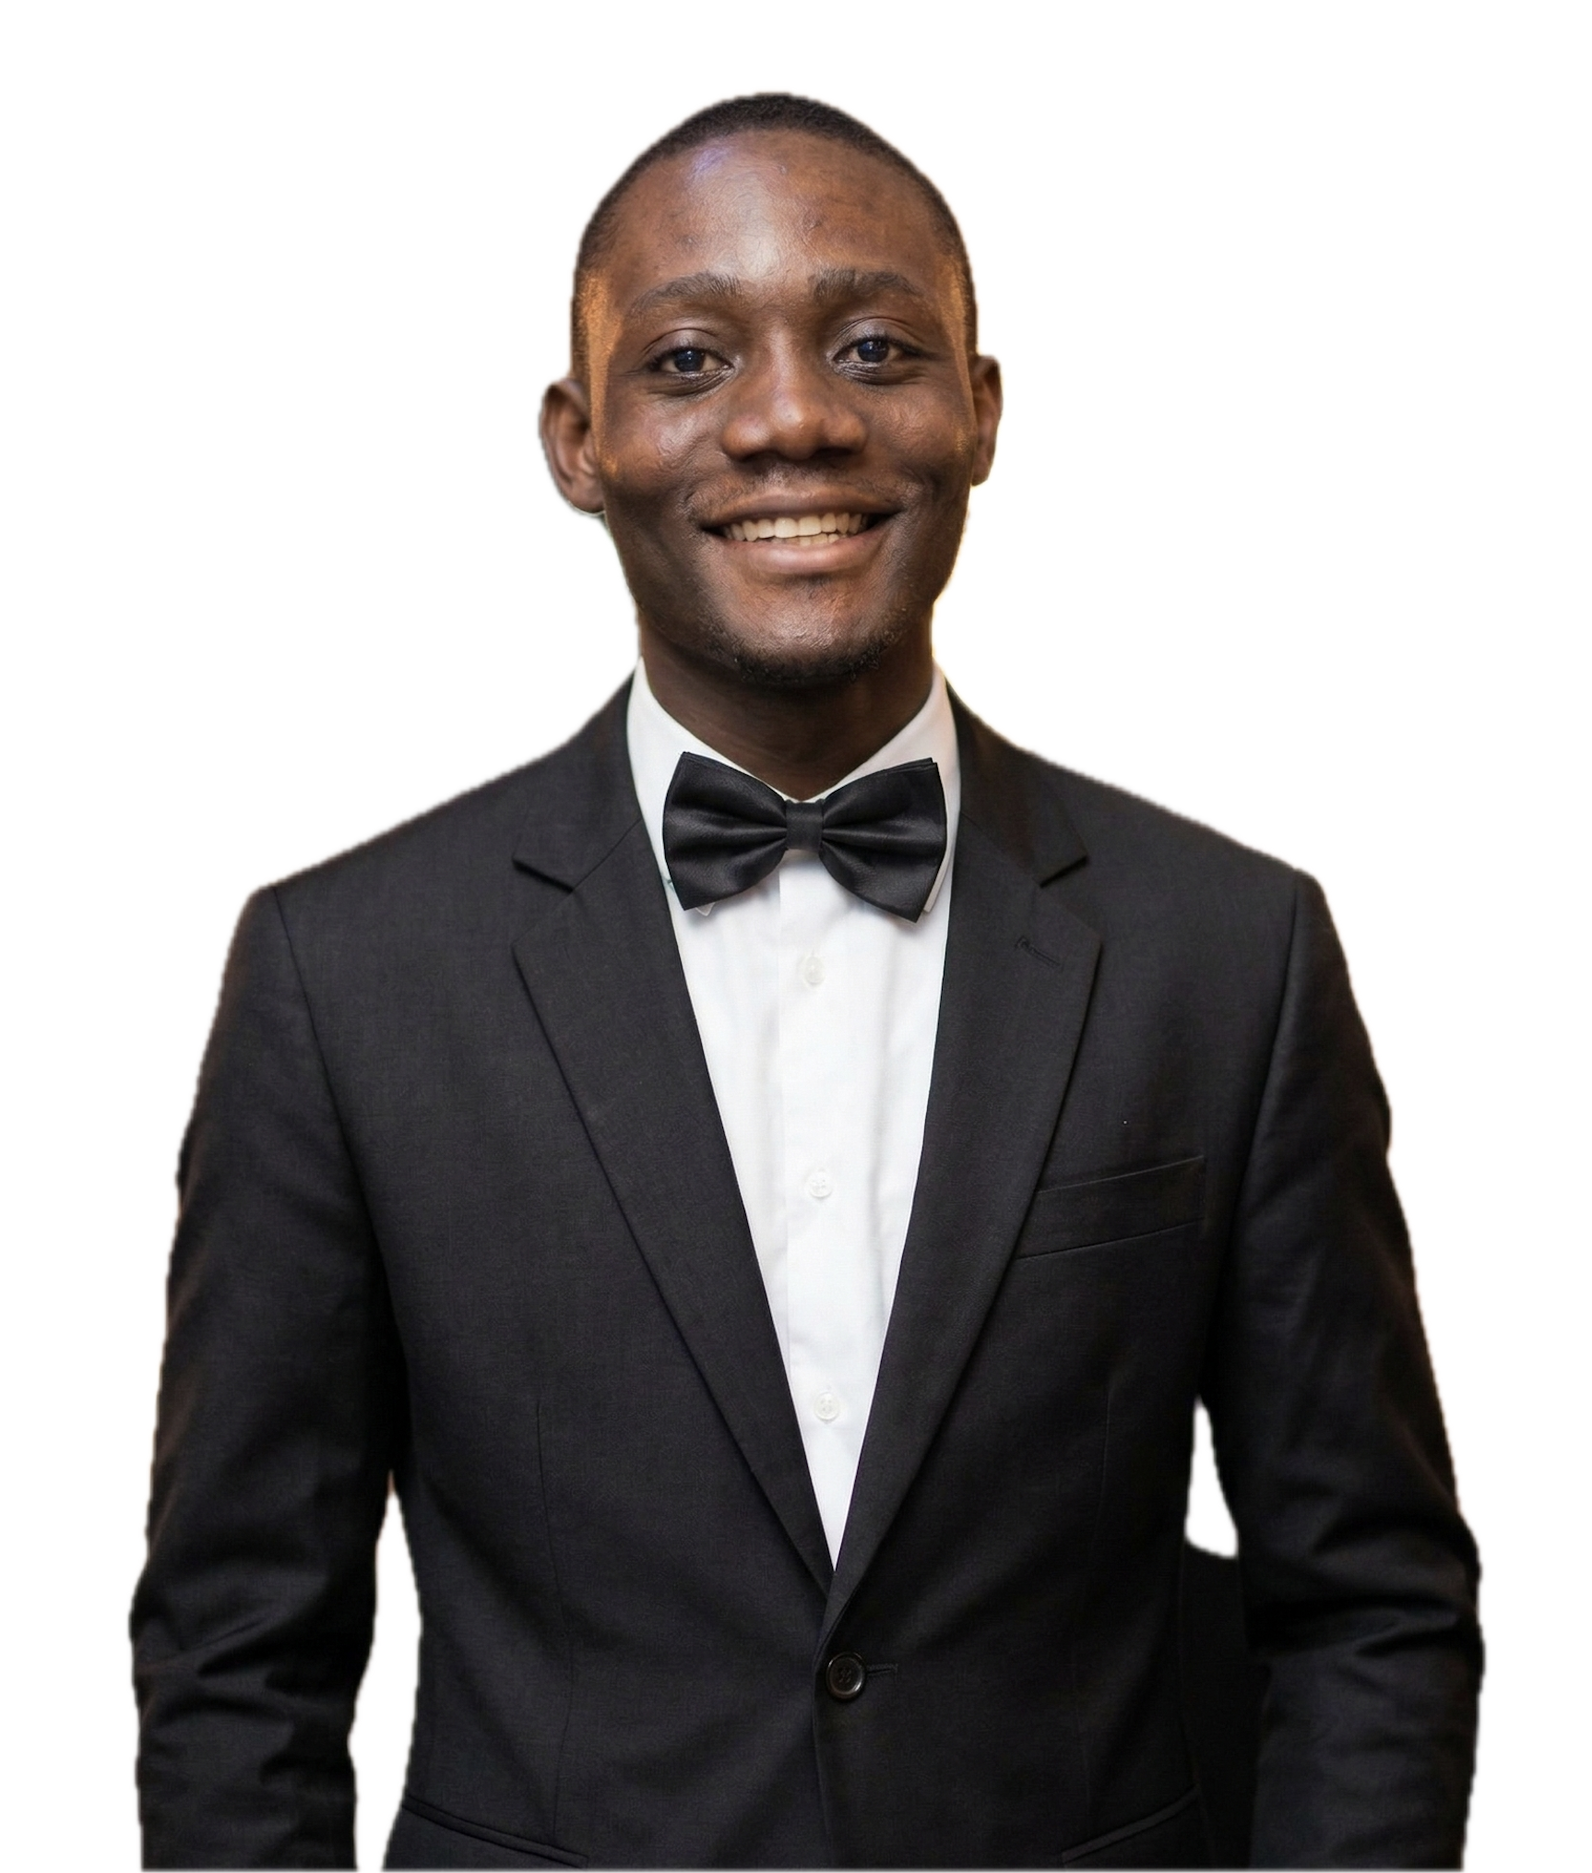
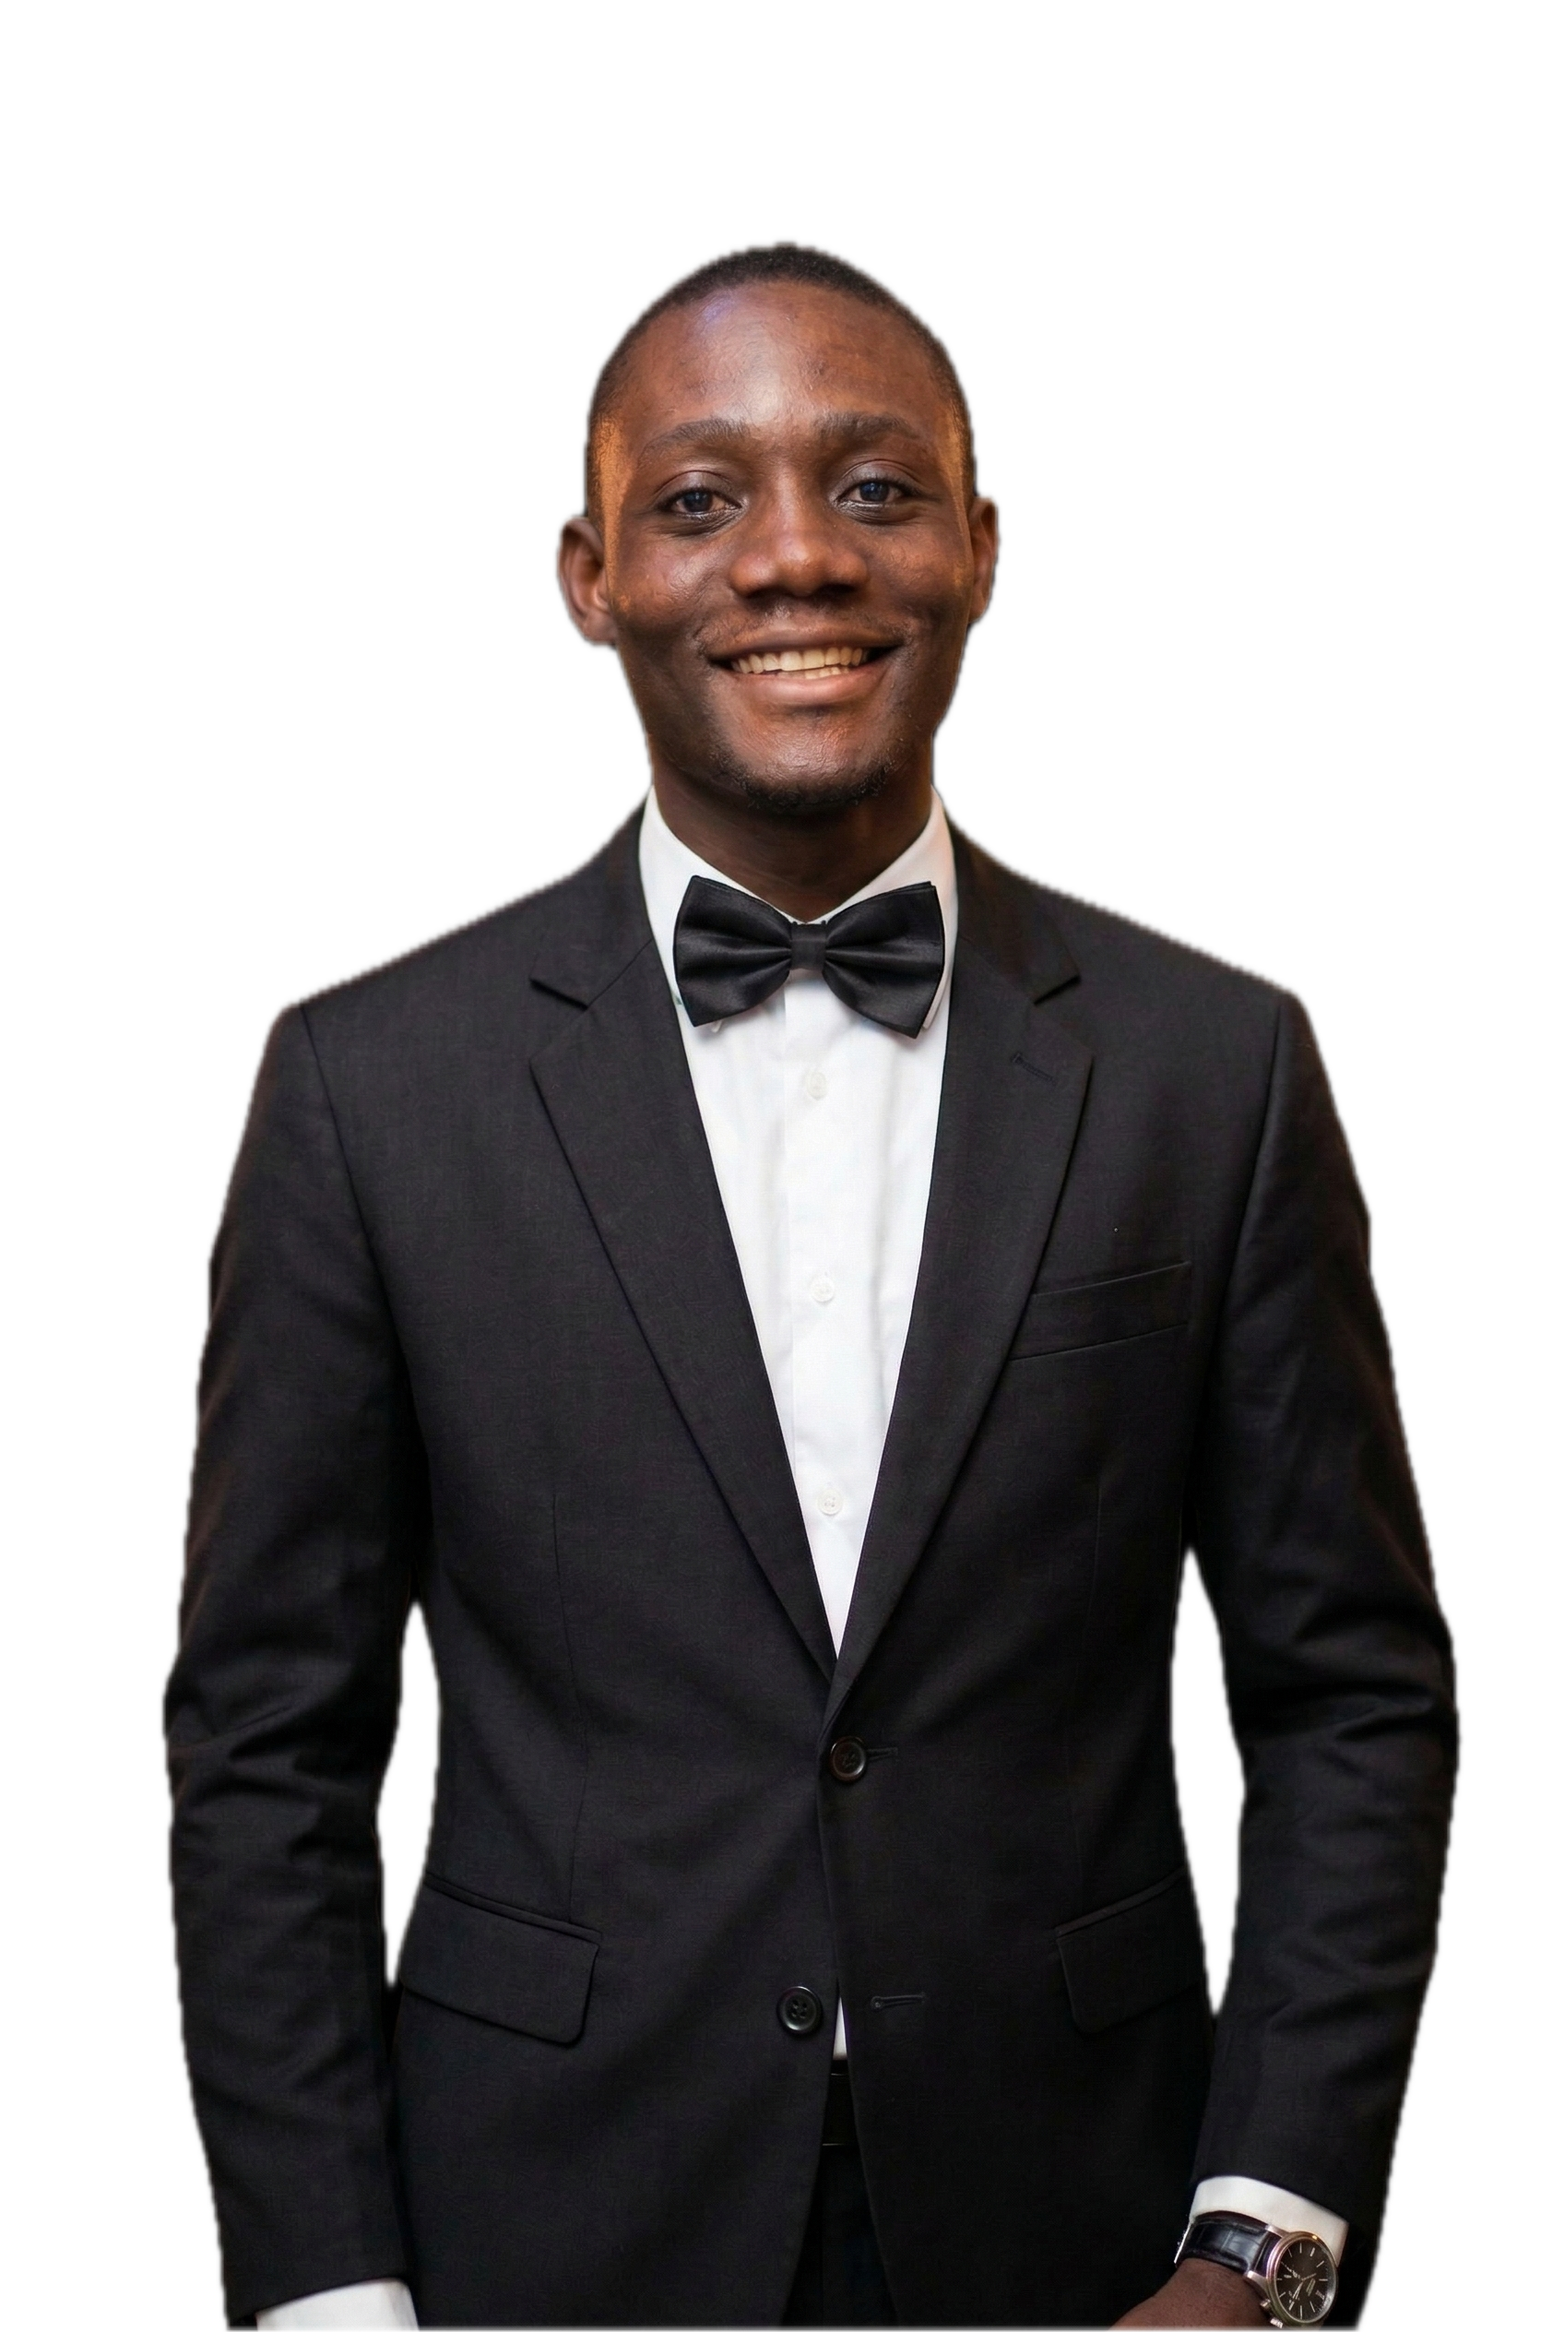
fix: adjust hero photo position down and left

diff --git a/components/Home.vue b/components/Home.vue
@@ -23,18 +23,14 @@ const year = new Date().getFullYear()
       </span>
     </div>
 
-    <!-- ── PROFILE PHOTO (absolute right half) ── -->
-    <div class="hidden lg:block absolute right-0 top-0 bottom-0 w-1/2 z-0">
-      <img
-        src="/hero-photo.png"
-        alt="Paul Imoke"
-        class="w-full h-full object-cover"
-        style="object-position: 35% 15%"
-        width="720"
-        height="900"
-        loading="eager"
-      />
-    </div>
+    <!-- ── PROFILE PHOTO (absolute, bottom-anchored portrait) ── -->
+    <img
+      class="hidden lg:block absolute top-0 z-0 pointer-events-none"
+      src="/hero-photo.png"
+      alt="Paul Imoke"
+      style="right: 0%; height: 150%; width: auto; clip-path: inset(0 0 30% 0);"
+      loading="eager"
+    />
 
     <!-- ── MAIN CONTENT — aligned to navbar container ── -->
     <div class="relative z-10 max-w-7xl mx-auto px-6 min-h-screen flex items-center">
